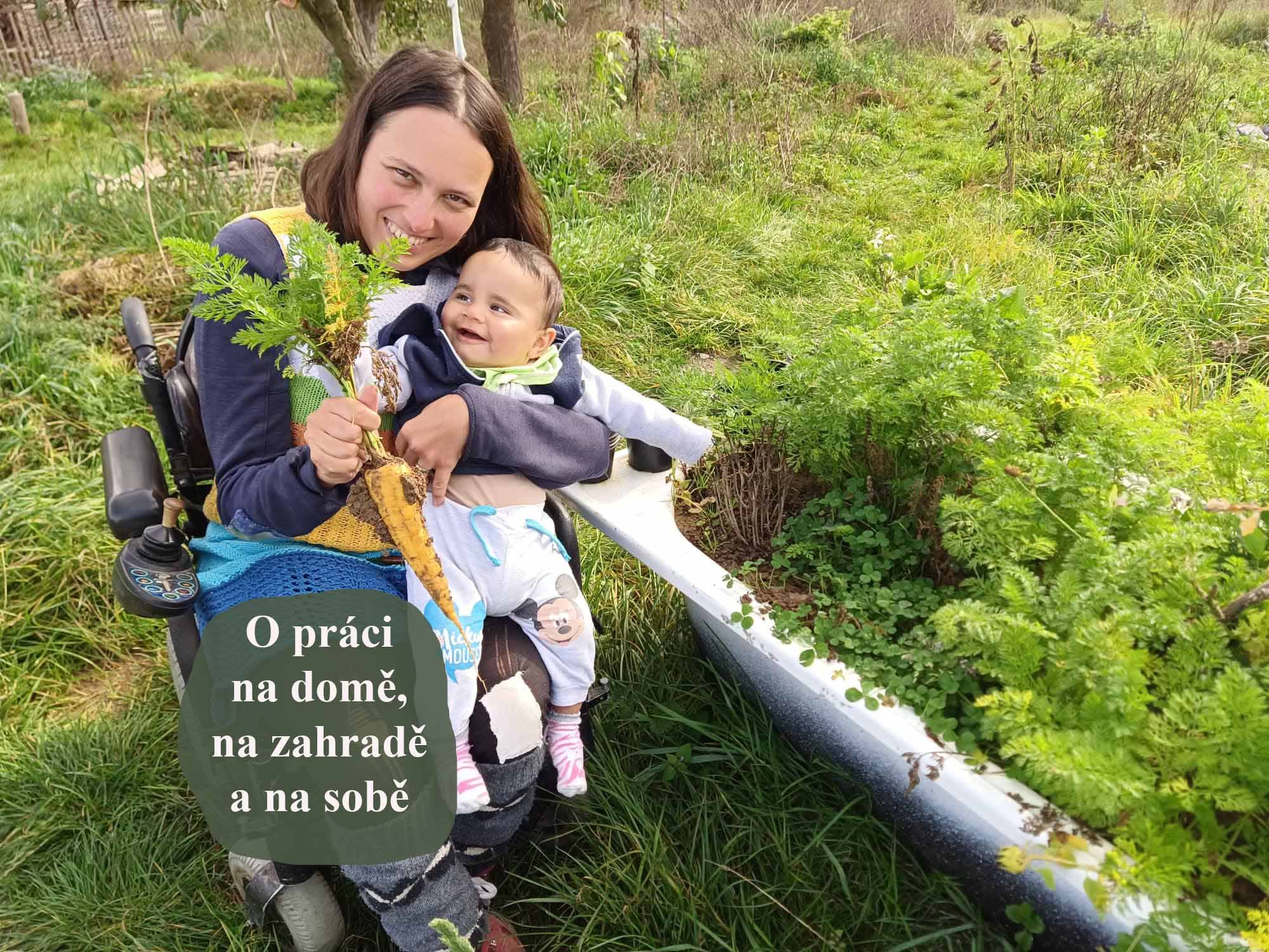
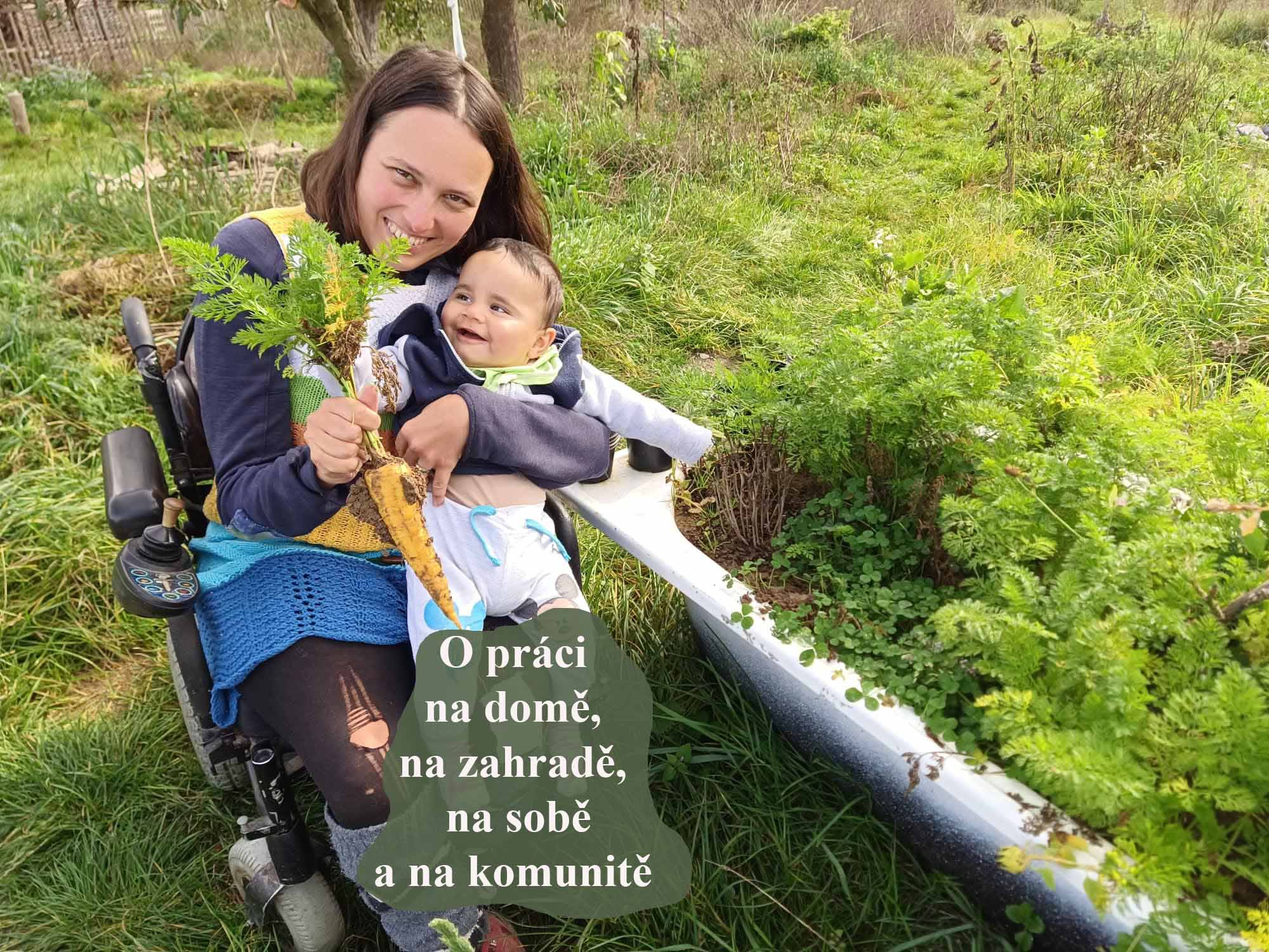
clanek 029 + do uvodu přidana sekce o komunite + koucuju NE!

Changed region(s): [[0.124, 0.6133, 0.558, 0.9813]]

diff --git a/blog/030_Jaro_2024.html b/blog/030_Jaro_2024.html
@@ -1,0 +1,110 @@
+---
+layout: layouts/sablona-article.njk
+title: Jaro 2024 v Perma ráji
+tags:  ["clanky", "osobnirust", "zahrada"]
+datum: 25. dubna 2024
+date: 2024-04-25
+picture: /img/table_blog/030.jpg
+picture_title: zahrada působící zanedbaným dojmem
+perex: Naše zahrada není obyčejná zahrada, mnozí by se tu i vyděsili! Ale my jí milujeme, je to náš Perma ráj. A jak to s ní vlastně máme?
+---
+
+<p class="article-p">
+    Naše zahrada není obyčejná zahrada, mnozí by se tu i vyděsili! Ale my jí milujeme, je to náš Perma ráj. A jak to s ní vlastně máme?
+</p>
+
+<img class="article__big-img" src="/img/table_blog/030.jpg" alt="Já, které překrývá vše ostatní a já, které získalo místo mezi dalšími bytostmi">
+
+<p class="article-p">
+    Co naše návštěvníky nejvíc okouzlí je výhled z našeho domu. Máme ho totiž postavený na kopci a vidíme z něj krásně do krajiny. Zrovna jsem i manželovi říkala, jak mě baví, protože se během roku zbarvuje do různých barev. Je to zážitek! No a my si ten výhled ještě vylepšili. Vytvořili jsme si přímo pod domem velké jezírko. Zkrátka žijeme na Olympu.
+</p>
+
+<p class="article-p">
+    Krása Perma ráje ale není vidět na první dobrou. Když k nám přijdete, tak vás rozhodně nic extra neohromí, v první části zahrady to zkrátka vypadá tak, jako když se zrovna postavil dům a ne jako, že už tu skoro rok bydlíme. Teda ona je pravda obojí :-). Zkrátka na první části zahrady máme ještě nějaký stavební odpad, budou třeba terénní úpravy a celá kupa různých druhů práce. Tak si asi dokážete představit, že moc velký dojem neuděláme. Plány pro tuto část máme ale velkolepé!
+</p>
+
+<p class="article-p">
+    Práce máme za sebou mraky, na tak velké zahradě se to ale ztratí. Naši návštěvníci*e se musí bedlivě dívat, ale když se zasnaží, vidí tu mraky krásy. Jakoby ta krása naší zahrady byla skrytá a ukázala se jen tomu, kdo ji chce vidět. 
+</p>
+
+<p class="article-p">
+    Když bych to celé měla hodně zjednodušit, tak můžeme říct, že lidi jsou buď sluníčka nebo mračouni. Sluníčka se orientují na to krásné a pak to všude vidí a mračouni zas na to ošklivé a pak to všude vidí. Naše zahrada má obojí a nabízí člověku přesně to, co chce vidět :-). No, není to kouzelná zahrada?
+</p>
+
+<p class="article-p">
+    Nejvíce práce je vidět asi na našem koupacím jezírku, kde už konečně budeme moci vysazovat rostliny, tak aby nám celý ekosystém mohl pěkně fungovat. Okolí jezírka však ještě zdaleka není, to ale nebude bránit letnímu koupání. Zprvu jsme napouštěli jezírko vlastním potem, teď už tu ale zadržujeme dešťovou vodu z naší střechy.
+</p>
+
+<img class="article__big-img" src="/img/blog/030/20240412_124110.jpg" alt="Já, které překrývá vše ostatní a já, které získalo místo mezi dalšími bytostmi">
+
+
+<p class="article-p">
+    Aktuálně napínáme nejvíce sil do pěstování jídla. V Kňovicích, kde bydlíme první jaro, si to náležitě užíváme. Kamil buduje záhony - vyvýšené a já předpěstovávám sazenice. Náš malý  Saša samozřejmě se vším pomáhá, nejvíc ho baví zalévat a okopávat.
+</p>
+
+<p class="article-p">
+    Taky dáváme dokopy naši letní kuchyň, která byla zaplavena haraburdím během stavby domu a stěhováním. Chceme z ní udělat místo pro posezení a oddech. Taky jsem tu zřídila Sašovi malý improvizovaný domeček. 
+</p>
+
+<p class="article-p">
+    Co bychom rádi, tak jsou různé složitější dětské prvky v zahradě, ale nemůžeme se k tomu dostat. Při hraní se Sašou na zahradě toho hodně vymýšlíme a nějaké maličkosti si vytvořit zvládneme. U Saši měla úspěch třeba kladina. Jedna k ní chodil, ale také to je chvělá dráha pro autíčka.
+</p>
+
+<p class="article-p">
+    K nějakým důmyslným prolejzačkám bychom už potřebovali Kamila, ten má ale ještě hromadu práce přímo v domě. Ještě třeba nemáme všechny  vnitřní dveře, s tím bude spojena hromada práce. Teď zrovna montuje polici na nářadí.
+</p>
+
+<h3 class="article__h3">Naše životní heslo: “Hlavně nezapomínat na život”</h3>
+
+<p class="article-p">
+    No seznam toho, co bychom  chtěli udělat je hodně dlouhý, s tím vás ani nebudu nudit. Co je ale nejdůležitější, je, že tohle místo pro nás bude stále Perma ráj a ne peklo :-). Snažíme se si užívat okamžiky, být myšlenkami tady a teď. No nejlíp to samozřejmě umí Saša. My s Kamilem bychom furt chtěli někam pospíchat, abychom už měli hotové tohle a tamto. Ale dobře víme, že to není cesta. Taky se nám stávalo, že jsme toho hodně udělali, ale mysleli jsme si, že jsme toho udělali málo a měli jsme z toho fakt blbé pocity. To se nám opakovalo, tak jsme si tyto pocity pojmenovali “žofík”. No a když už víte, proti čemu stojíte, zvládáte lépe se s tím vypořádat. 
+</p>
+
+<p class="article-p">
+    Teď už plánujeme mnohem reálněji, nemáme přehnaná očekávání a tím pádem nejsme většinou zklamaní. Taky soustřeďujeme naši pozornost na to, co už jsme udělali. Nejlepší pro to je být v zahradě a všímat si, co tam máme. Kochat se! Skutečně se kochat. Umíte se skutečně kochat? (Co se ve vás děje, když se kocháte?). 
+</p>
+
+<p class="article-p">
+    Ale zpět k věci. Já toho v zahradě tolik nezastanu, tak jsem hodně se Sašou. Vymýšlíme, blbneme, ale taky pracujeme. Plejeme, zalejváme, sázíme, vymejšlíme tátovi další práci a tak :-). 
+</p>
+
+<p class="article-p">
+    Ale abych to shrnula, stanovujeme si priority, které nám přinesou nejvíce radosti a když je to hotové, náležitě se vykoupeme v pozitivních pocitech. Jsme vděční, za to co máme. A vděčnost je sakra velký zdroj energie a pozitivních pocitů.
+</p>
+
+<h3 class="article__h3">Další fotky ze zahrady</h3>
+
+<img class="article__big-img" src="/img/blog/030/sasa_zaleva.jpg" alt="Chlapeček zalévá">
+
+<p class="popis-fotky" id="popis-fotky_dole">Náš malý pomocník v akci</p>
+
+<img class="article__big-img" src="/img/blog/030/zaba.jpg" alt="žáva ve vodě">
+<p class="popis-fotky" id="popis-fotky_dole">Žába v našem jezírku ze staré smaltované vany</p>
+
+<img class="article__big-img" src="/img/blog/030/zahon novy.jpg" alt="Nový yvýšený záhon">
+<p class="popis-fotky" id="popis-fotky_dole">Fungl nový záhon</p>
+
+
+<img class="article__big-img" src="/img/blog/030/jiva a dobromysl.jpg" alt="Vrba jíva">
+<p class="popis-fotky" id="popis-fotky_dole">Vrbu jívu jsme si dlouho přáli, až se k nám sama nastěhovala. Pod ní už máme rozrostlou dobromysl.</p>
+
+<img class="article__big-img" src="/img/blog/030/jiva_unor.jpg" alt="Detail vrby jívy v únoru se včelou">
+<p class="popis-fotky" id="popis-fotky_dole">Vrba jíva v únoru s prvními opylovači.</p>
+
+<img class="article__big-img" src="/img/blog/030/domecek.jpg" alt="Improvizovaný dětský domeček">
+<p class="popis-fotky" id="popis-fotky_dole">Improvizovaný dětský domeček před rekonstrukcí</p>
+
+<img class="article__big-img" src="/img/blog/030/jezirko.jpg" alt="Přírodní jezírko před dokončením">
+<p class="popis-fotky" id="popis-fotky_dole">Naše jezírko v současné době. Za pár týdnů už bude osázené rostlinama. Pruty z vrby chystáme na domeček vedle jezírka.</p>
+
+<img class="article__big-img" src="/img/blog/030/jezirko-pulci.jpg" alt="pulci ve vodě mezi vetvemi">
+<p class="popis-fotky" id="popis-fotky_dole">Detail jezírka, kde se mezi větvemi ukrývá plno pulců</p>
+
+<img class="article__big-img" src="/img/blog/030/vstupnazahradu.jpg" alt="První část zahrady">
+<p class="popis-fotky" id="popis-fotky_dole">Vstupní část zahrady - musíme s ní něco udělat, ale zatím to není priorita</p>
+
+<img class="article__big-img" src="/img/blog/030/yzop.jpg" alt="yzop">
+<p class="popis-fotky" id="popis-fotky_dole">Skupinka yzopů, až na jeden jsou všechny fialové</p>
+
+<img class="article__big-img" src="/img/blog/030/salvej.jpg" alt="šalvěj vedle odtoku z jezírka">
+<p class="popis-fotky" id="popis-fotky_dole">Jedna z mnoha šalvějí, které jsem na zahradě vysadila. Tahle je vedle odtoku z jezírka.</p>

diff --git a/index.html b/index.html
@@ -41,6 +41,14 @@ title: O práci na zahradě, na domě a na sobě.
     <p class="intro_koucuju-p"><a class="intro_a" href="https://www.naucmese.cz/karolina-chovancova-1">Skupinové koučování na Naučmese</a></p>
 </div>
 
+<div  class="div_my_story">
+    <h3 class="h3_intro">Budujeme komunitu</h3>
+
+    <p class="intro_my_story">
+         Nechceme za zámými cestovat daleko. Chceme je mít za rohem. Chceme se s nimi bavit, pořádat akce, vypomáhat si, zkrátka společně si užívat život :-). Přijďte na nějakou naší akci. Více o naší komunitě  <a class="intro_a-dark" href="/blog_komunita">zde</a>.
+    </p>
+</div>
+
 <div id="div_dark">
     <h3 class="h3_intro" id="h3_intro_svetly">Zakládáme Perma ráj</h3>
 </div>
@@ -114,13 +122,13 @@ title: O práci na zahradě, na domě a na sobě.
     </p>
     
     <p class="intro_my_story">
-        Vydala jsem se na cestu, jak si vytvořit vlastní práci, více o tom píšu <a class="intro_a" href="https://www.permaraj.cz/blog/022_nova_prace/">zde</a>. V rámci toho, si na otázky odpovídám a chci je žít. Permakultura má úctu k přírodě a člověku. Tu chci šířit. 
-        <a class="intro_a" href="/permakultura">Více o permakultuře</a>.
+        Vydala jsem se na cestu, jak si vytvořit vlastní práci, více o tom píšu <a class="intro_a-dark" href="https://www.permaraj.cz/blog/022_nova_prace/">zde</a>. V rámci toho, si na otázky odpovídám a chci je žít. Permakultura má úctu k přírodě a člověku. Tu chci šířit. 
+        <a class="intro_a-dark" href="/permakultura">Více o permakultuře</a>.
     </p>  
     
     <p class="intro_my_story">
-        Stala jsem se koučkou. Je to další krok na mé cestě. Kouč neradí, ale pokládá otázky. Nutí koučovaného přemýšlet. Při přemýšlení o sobě zjišťujete nové věci. Je to taková mnohdy dobrodružná výprava do sebe. 
-        <a class="intro_a" href="/koucovani">Moje nabídka koučování</a>.
+        Stala jsem se koučkou. Je to další krok na mé cestě. Kouč neradí, ale pokládá otázky. Nutí koučovaného přemýšlet. Při přemýšlení o sobě zjišťujete nové věci. Je to taková mnohdy dobrodružná výprava do sebe. Úplně nejraději pomáhám lidem znovu se naučit říkat "NE".
+        <a class="intro_a-dark" href="/koucovani">Moje nabídka koučování</a>.
     </p>
 </div>
 

diff --git a/koucovani.html b/koucovani.html
@@ -14,47 +14,15 @@ využít ve prospěch Země a trvale udržitelného života.</p>
 <p class="koucovani__intro--title">Pomáhám lidem poznávat a posilovat sebe, zlepšovat vztahy a spolupráci s dalšími lidmi v rámci rodiny, sousedství, práce, komunity apod. Věřím, že udržitelnosti dosáhneme především spoluprací.</p>
 
 
+<!-- sekce NE -->
+<p class="kouc__ne">Proto je důležité umět říkat:</p>
+<p class="kouc__ne" id="kouc__ne--strong">NE!</p>
+<p class="kouc__ne">nebo aspoň</p>
+<p class="kouc__ne" id="kouc__ne--strong">Ne, děkuju!</p>
 
-<!-- bubliny -->
-<div class="con-intro">
-
-    <div class="koucovani__intro--con">
-        <p class="koucovani__intro">
-            Chci budovat trvalé vztahy s lidmi.
-        </p>
-
-        <p class="koucovani__intro">
-            Potřebuji lépe zvládat náročné situace v komunikaci.
-        </p>
-
-        <p class="koucovani__intro">
-            Chci se v životě víc radovat.
-        </p>
-
-    </div>
-
-    <div class="koucovani__intro--con">
-
-        <p class="koucovani__intro">
-            Jak se bavit o klimatu, abych to neskončilo v emocích ...
-        </p>
-
-        <p class="koucovani__intro">
-            Chci vytrvat v práci na svých cílech. 
-        </p>
-
-        <p class="koucovani__intro">
-            Vím, co je respektující přístup, ale nedří se mi ho uplatňovat v praxi.
-        </p>
-
-        <p class="koucovani__intro">
-            Ráda/a bych budoval/a růstové nastavení mysli.
-        </p>
-
-    </div>
-
-</div>
-
+<p class="kouc__ne">Dělá Ti to problém? Tak se mi ozvi :-).</p>
+<p class="kouc__ne">A neboj, neřeknu Ne :-)</p>
+<!-- konec sekce NE -->
 
 <div class="koucovani-conatainer__offer">   
     

diff --git a/blog/p001_vymena_sazenic.html b/blog/p001_vymena_sazenic.html
@@ -1,0 +1,18 @@
+---
+layout: layouts/sablona-article.njk
+title: Chystá se sousedská výměna sazenic
+tags:  ["clanky", "zahrada", "komunita"]
+date: 2024-04-15
+picture: /img/table_blog/p01.jpg
+picture_title: Pozvánka na sousedskou výměnu sazenic
+perex: Přijďte k nám do Perma ráje 11.5. od 14:00 vyměnit nějaké výpěstky nebo jen tak poklábosit!
+---
+
+
+
+<p class="article-p">
+    Přijďte se s náma pozdravit a vyměnit nějaké sazenice či zahradnické tipy. Budeme Vás čekat u nás na zahradě v Kňovicích vedle domku č.p. 45. Určitě nás nepřehlédnete.
+    Od 15:00 navíc budeme sdílet naše zkušenosti ze zakládáním permakulturní zahrady a dokonce vám ji ukážeme :-). Tak se stavte!
+</p>
+
+<img class="article__big-img" src="/img/blog/p001/plakát_sazenice-final.jpg" alt="Já, které překrývá vše ostatní a já, které získalo místo mezi dalšími bytostmi">

diff --git a/css/style.css b/css/style.css
@@ -312,6 +312,10 @@ h1 {
   color: #FAF2F2;
 }
 
+.intro_a-dark {
+  color: #4A4146;
+}
+
 .intro-offer--a {
   text-decoration: none;
   color: #eab148;
@@ -1361,35 +1365,23 @@ footer {
   }
 }
 
+.kouc__ne {
+  font-family: "Segoe UI", Tahoma, Geneva, Verdana, sans-serif;
+  text-align: center;
+}
+
+#kouc__ne--strong {
+  font-weight: bold;
+  font-size: 20px;
+  margin: 10px;
+}
+
 .a-koucovani {
   color: #4D5A46;
 }
 
 .p-koucovani {
   line-height: normal;
-}
-
-.con-intro {
-  display: flex;
-  align-items: center;
-  justify-content: center;
-}
-@media screen and (min-width: 720px) {
-  .con-intro {
-    display: inline;
-  }
-}
-
-.koucovani__intro--con {
-  display: flex;
-  flex-direction: column;
-  align-items: center;
-}
-@media screen and (min-width: 720px) {
-  .koucovani__intro--con {
-    flex-direction: row;
-    justify-content: space-around;
-  }
 }
 
 .koucovani__intro {

diff --git a/scss/_koucovani.scss b/scss/_koucovani.scss
@@ -15,6 +15,18 @@
     }
 }
 
+.kouc__ne{
+    font-family: 'Segoe UI', Tahoma, Geneva, Verdana, sans-serif;
+    text-align: center;
+}
+
+#kouc__ne--strong{
+    font-weight: bold;
+    font-size: 20px;
+    margin: 10px;
+}
+
+
 .a-koucovani{
     color: $secondary-c;
 }
@@ -23,32 +35,6 @@
     line-height: normal;
 }
 
-.con-intro{
-    display: flex;
-    align-items: center;
-    justify-content: center;
-
-
-    @media screen and (min-width: $tablet-size) { 
-        display: inline; 
-    }
-
-
-}
-
-.koucovani__intro--con{
-
-    display: flex;
-    flex-direction: column;
-    align-items: center;
-    
-    @media screen and (min-width: $tablet-size) { 
-       flex-direction: row; 
-        justify-content: space-around; 
-    }
-    
-    
-}
 
 .koucovani__intro{
     padding: 10px;

diff --git a/blog/024_klima_akademie.html b/blog/024_klima_akademie.html
@@ -1,7 +1,7 @@
 ---
 layout: layouts/sablona-article.njk
 title: Hostětín, místo plné lidí odhodlaných zvrátit klimatickou krizi. Stačí se jen připojit. 
-tags:  ["clanky", "zahrada", "dum", "osobnirust", "komunita"]
+tags:  ["clanky", "osobnirust", "komunita"]
 datum: 30. srpna 2023
 date: 2023-08-30
 picture: /img/table_blog/024.jpg

diff --git a/scss/_intro.scss b/scss/_intro.scss
@@ -82,6 +82,10 @@
     color: $background-c;
 }
 
+.intro_a-dark{
+    color: $septenary-c;
+}
+
 .intro-offer--a{
         text-decoration: none;
         color: $primary-c;
